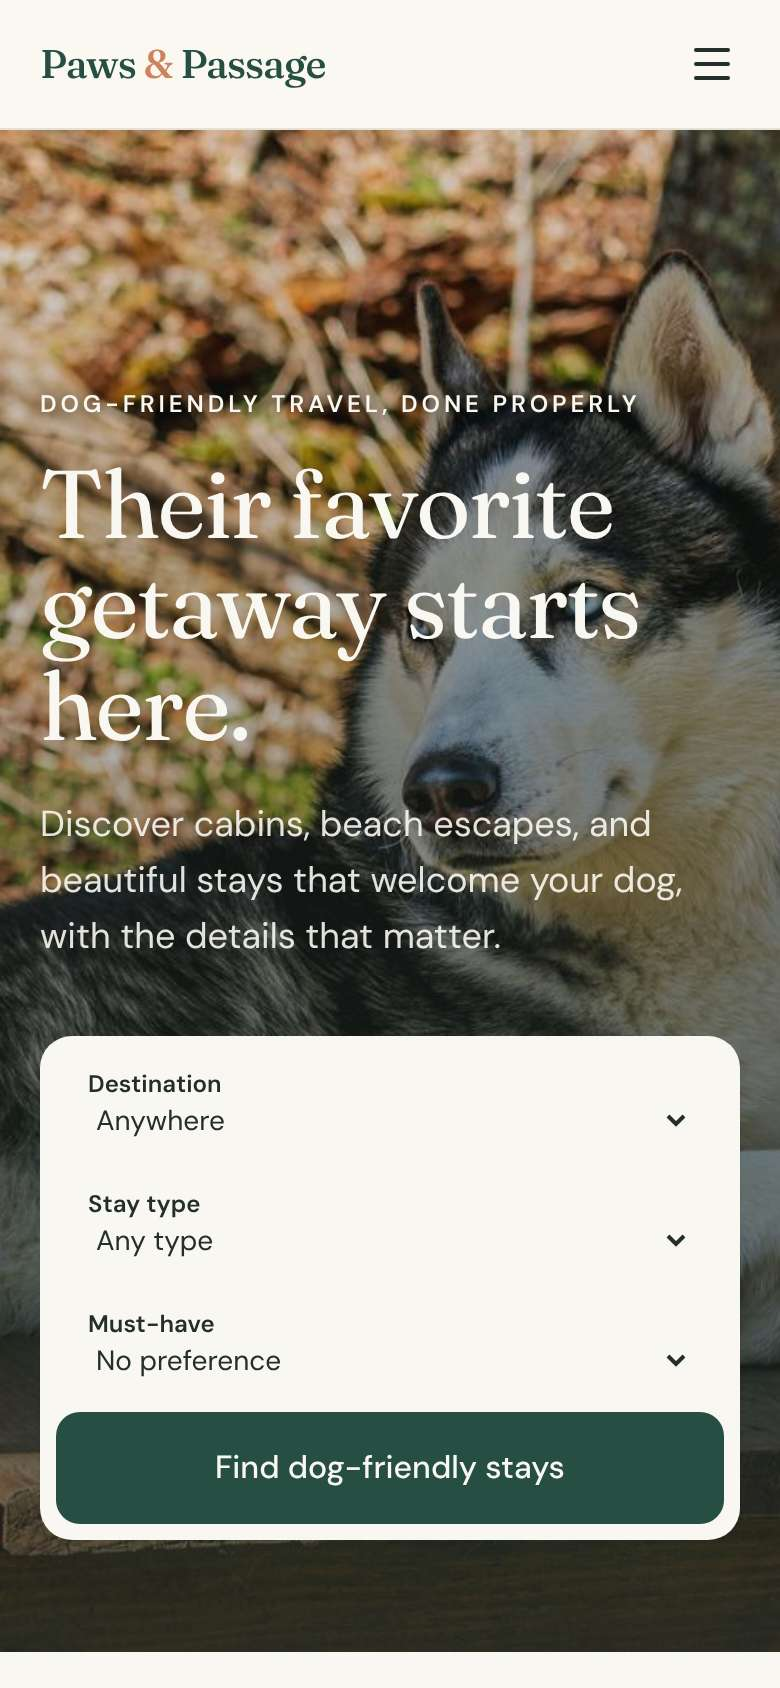
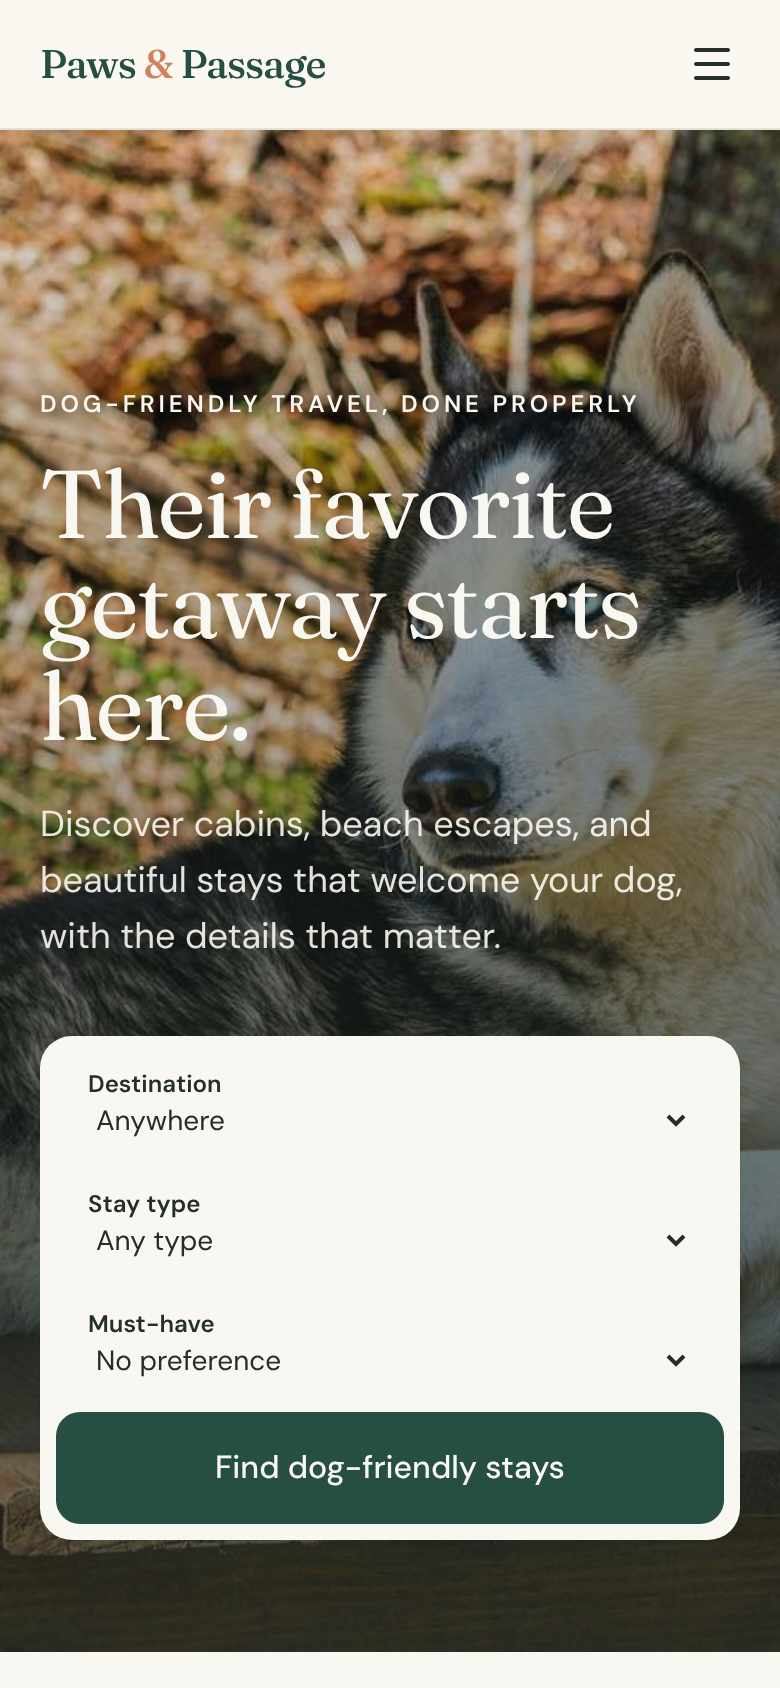
Replace home hero with credited Unsplash photo; update flip docs
Claude-Session: https://claude.ai/code/session_01Wtg1HH8F4yVLgmmRX8QVNV

diff --git a/docs/flip/audit-legal-transfer.md b/docs/flip/audit-legal-transfer.md
@@ -10,7 +10,7 @@ Existing docs relied on but stale (dated 2026-11-16 to 18): `docs/SALE-READINESS
 |---|---|---|---|
 | B1 | Seller affiliate IDs are live in the site: Amazon tag `pawspassage-20`, 33 Vrbo `vrbo.com/affiliate/...` deeplinks, Impact site-verification meta tag. A buyer who publishes as-is sends commissions to the seller and may breach program terms. | `content/settings.yml`; `content/affiliates.yml` (63 uses of `{amazonTrackingId}`); `src/routes/__root.tsx` ~107 | VERIFIED |
 | B2 | No copyright assignment path: no `LICENSE`/`COPYING` file, no copyright notice except footer `(c) {year} Paws & Passage` (no owner named). Buyer needs a written assignment of the text, code and documentation. | `ls LICENSE*` fails; `src/components/site/SiteFooter.tsx:107` | VERIFIED |
-| B3 | Home hero `hero-porch*.jpg` is stated to be AI-generated; the generator, prompt and its terms are not recorded anywhere in the repo, so commercial rights and transferability cannot be shown. | `src/routes/editorial-standards.tsx:44`; no entry in `src/content/image-credits.ts` | VERIFIED that it is undocumented; rights UNVERIFIED |
+| B3 | RESOLVED. Home hero `hero-porch*.jpg` was an undocumented AI image. Owner decision: replaced with a credited Unsplash photo (photographer Cody Scott Milewski, Unsplash License, page https://unsplash.com/photos/siberian-husky-lying-on-brown-wooden-floor-ubDougWF758). Unsplash gives usage rights, not ownership or exclusivity. | `src/content/image-credits.ts` (key `hero-porch`); `src/routes/editorial-standards.tsx`; `src/routes/terms.tsx` | Photo page showed the Unsplash License (not Unsplash+) when fetched |
 | B4 | Legal pages name no operator, entity, jurisdiction or governing law; Terms has a no-liability clause but no governing-law or dispute clause; "no legal review" was the owner's decision. Not a listing blocker, but a buyer must add their own before relying on them. | `src/routes/terms.tsx`, `privacy.tsx`, `affiliate-disclosure.tsx` (all dated 2026-11-18); grep for jurisdiction, governing, entity, LLC: none | VERIFIED |
 | B5 | Disclosure risk: it must not be advertised as earning or as having traffic. Repo supports neither. | `docs/SALE-READINESS.md` (net profit $0) | VERIFIED |
 
@@ -21,7 +21,7 @@ Existing docs relied on but stale (dated 2026-11-16 to 18): `docs/SALE-READINESS
 | N1 | No placeholder "starter text" markers in the legal pages (grep for starter, placeholder, TODO). The pages are generic rather than templated. | `src/routes/{privacy,terms,affiliate-disclosure,about,contact,editorial-standards}.tsx` VERIFIED |
 | N2 | Masthead "Paws & Passage Editors" is a brand byline, not a person, and About says the owner chose not to publish a bio. This is not owner-specific and transfers cleanly. | `src/routes/about.tsx:24` VERIFIED |
 | N3 | `hello@pawsandpassage.com` is the only contact address, set in settings (not hardcoded) and rendered with a graceful fallback if blank. A buyer can change it in one value. Dependence on the Namecheap Private Email subscription is real. | `content/settings.yml`; `src/components/site/ContactEmail.tsx` VERIFIED; subscription status UNVERIFIED |
-| N4 | Photos: every guide, gear and destination image key in `src/assets` has an Unsplash credit in `image-credits.ts` (42 entries); the 15 `pack-*.jpg` images are credited in `src/content/pack-photos.ts` (16 entries). Only `hero-porch`, `hero-porch-mobile` are uncredited (B3). Unsplash License is non-exclusive and covers commercial use but is use-rights, not ownership; it does not cover trademarks or people's likeness in a photo. | credit-vs-asset comparison run today; `docs/PRODUCT-PHOTOS.md` cites https://unsplash.com/license. License text itself not re-read today (UNVERIFIED). |
+| N4 | Photos: every guide, gear and destination image key in `src/assets` has an Unsplash credit in `image-credits.ts` (42 entries); the 15 `pack-*.jpg` images are credited in `src/content/pack-photos.ts` (16 entries). The hero (`hero-porch*`) is now credited too (B3 resolved). Unsplash License is non-exclusive and covers commercial use but is use-rights, not ownership; it does not cover trademarks or people's likeness in a photo. | credit-vs-asset comparison run today; `docs/PRODUCT-PHOTOS.md` cites https://unsplash.com/license. License text itself not re-read today (UNVERIFIED). |
 | N5 | `public/pins/*` and `public/share/*` (Pinterest and social images) are derived images; their source photos are not recorded per file. Probably Unsplash-derived. | directory listing; provenance UNVERIFIED |
 | N6 | Product photos: none from makers (docs record that maker photos need permission and none were added). | `docs/PRODUCT-PHOTOS.md`; no maker images identified in `src/assets` names VERIFIED by listing |
 | N7 | Fonts: DM Sans and Fraunces under the SIL OFL, license files shipped. | `public/fonts/OFL-*.txt` VERIFIED |
@@ -64,7 +64,7 @@ Effort: S under 1 hour, M 1 to 4 hours, L over 4. "Blocks listing" means do not 
 | Pri | Task | Effort | Blocks listing |
 |---|---|---|---|
 | P0 | Decide and state the asset list honestly: pre-revenue, no traffic or income claims, 37 stays unverified (not live), AI-assisted content, seller affiliate IDs removed at closing. | S | Yes |
-| P0 | Confirm the hero image source and tool (or agree to replace it with a credited Unsplash photo). | S | Yes if hero is claimed as an included asset |
+| P0 | DONE: hero replaced with a credited Unsplash photo. | S | No |
 | P0 | Agree to a written bill of sale and copyright assignment (use a lawyer or a standard asset-purchase template; I did not draft one). | M | Closing |
 | P1 | Decide the mailbox: transfer hello@ via Namecheap support, or buyer creates their own. Remove personal forwarding and recovery email. | S | No |
 | P1 | Decide whether to hand over Pinterest (or delete) and the GA4/GSC properties; decide on a fresh squashed repo versus transferring full history (personal email in history). | S | No |

diff --git a/docs/FLIP_READINESS_AUDIT.md b/docs/FLIP_READINESS_AUDIT.md
@@ -8,7 +8,7 @@ Objective (owner, 2026-11-23): sell the site as a turnkey, pre-revenue starter a
 | Traffic | 2 | No GA4 or Search Console data has been read by us. Domain registered 2026-11-17, sitemap of 98 URLs is live and crawlable (VERIFIED). Whether Google has indexed anything is UNVERIFIED. |
 | Revenue | 1 | $0. No affiliate earnings exist; Vrbo and Amazon links are wired through accounts that do not transfer (VERIFIED). |
 | Content | 6 | 30 published guides, about 76,900 words, 491 citations, an original 38-manager dataset (VERIFIED). Held back by: researched not hands-on, no named author by design, dataset is a one-time convenience sample. |
-| Risk | 5 | Positive: no backend, permissive licenses only, no secrets found, tests and build pass, handover docs exist. Negative: no LICENSE or assignment text, seller IDs in the site, an undocumented hero image, no legal review, domain transfer lock rule unverified, young domain. |
+| Risk | 5 | Positive: no backend, permissive licenses only, no secrets found, tests and build pass, handover docs exist. Negative: no LICENSE or assignment text, seller IDs in the site, an AI hero image (now replaced, see blocker 4), no legal review, domain transfer lock rule unverified, young domain. |
 | **Average** | **3.5** | (2 + 1 + 6 + 5) / 4. Do not quote this to buyers; it is an internal planning score. |
 
 ## 2. Is $1,500 defensible?
@@ -22,7 +22,7 @@ Trade-off the owner should know: waiting 3 to 6 months for real traffic data wou
 | 1 | Branch fixes not merged to `main`. Production still has the retired Sleepypod Clickit Sport Plus and Backseat Bridge cards (no buy box on Amazon) and 54 active products instead of 53 | inventory "Branch vs live"; Amazon check 2026-11-18 | Listing | Owner says "merge", Claude merges |
 | 2 | Eight live guides link to the three draft guides, which return 404 (D1) | live-QA audit | Listing | Claude (worker running; regression test added) |
 | 3 | 22 of 24 Vrbo deeplinks unverified because Vrbo returns 429 to bots (D2) | live-QA audit | Listing (the listing says stays earn through Vrbo) | Cowork/owner click test |
-| 4 | Hero image `hero-porch*.jpg` has no recorded source or rights (an AI image per Editorial Standards line 44) | audit-legal-transfer | Listing (honesty) | OWNER decides the wording or replaces it |
+| 4 | RESOLVED: hero image `hero-porch*.jpg` had no recorded source or rights (an AI image). Owner decision: replaced with a credited Unsplash photo (Cody Scott Milewski, Unsplash License). Unsplash gives usage rights, not ownership or exclusivity. | audit-legal-transfer | Listing (honesty) | Done |
 | 5 | No traffic/GA/GSC evidence collected | none read | Listing (honest statement needs numbers) | Cowork B4 B5 |
 | 6 | No LICENSE and no copyright assignment or bill of sale text | audit-legal-transfer | Closing | OWNER |
 | 7 | Namecheap transfer-lock rule for a new domain is unverified | docs conflict | Closing | Cowork B2 |
@@ -40,7 +40,7 @@ Categories: A Claude/code, B Cowork/browser, C Owner-only, D Not needed. Priorit
 | T3 | B | P0 | Vrbo deeplink click test: open each of the 24 booking links in the owner's browser, confirm each lands on the right listing (slow, never hammer) | Stay pages are the monetization story | Cowork or owner | T1 | 45 min | Table of 24 links: lands OK / wrong / dead; evidence | Yes |
 | T4 | B | P0 | GA4 and Search Console evidence (brief B4, B5) | The honest traffic statement | Cowork | none | 20 min | Screenshots with dates, exact numbers | Yes |
 | T5 | B | P0 | Domain proof and Namecheap transfer/lock rules (B1, B2) | Proves ownership; avoids a closing surprise | Cowork | none | 20 min | Screenshots; quoted official wording | Yes |
-| T6 | C | P0 | Decide the hero image (keep with AI disclosure in the listing, or replace) | Rights and honesty | Owner | none | 15 min | Written decision | Yes |
+| T6 | C | P0 | Decide the hero image (keep with AI disclosure in the listing, or replace). DONE: replaced with a credited Unsplash photo | Rights and honesty | Owner | none | 15 min | Written decision | Yes |
 | T7 | A | P0 | Re-run tests and build on final `main`; refresh inventory numbers | Verified-works evidence | Claude | T1 | 15 min | Updated inventory | Yes |
 | T8 | C | P0 | Approve the listing text and decide price floor and offers policy | Final selling decisions | Owner | T3,T4 | 30 min | Approved `SALE_LISTING_DRAFT.md` | Yes |
 | T9 | B | P1 | Marketplace requirements verified in browser (B9) and comps (B10) | Correct fees and a realistic price | Cowork | none | 45 min | Research file section | No (informs T8) |

diff --git a/docs/TRANSFER_CHECKLIST.md b/docs/TRANSFER_CHECKLIST.md
@@ -24,7 +24,7 @@ This file does not repeat the detailed procedures. Follow them in: `docs/DNS-AND
 | Pages CMS | BUYER MUST REPLACE (re-link) | Account-less tool; buyer signs in with GitHub and installs the Pages CMS GitHub App on the repo owner (`.pages.yml`). Not yet opened live per its own header comment. |
 | Code and original content | TRANSFERS (by assignment) | Needs a written assignment; no LICENSE file exists. |
 | Unsplash photos | TRANSFERS as licensed use (not ownership) | Unsplash License is non-exclusive; credits must stay. |
-| AI-generated home hero | OWNER DECISION | Generator and terms not recorded (UNVERIFIED). |
+| Home hero image | RESOLVED | Replaced with a credited Unsplash photo. Unsplash gives usage rights, not ownership or exclusivity. |
 | Dataset CSV | OWNER DECISION / risk | Facts compiled from manager pages; terms-of-use not reviewed. |
 | GA4 property (G-1J97C8CPC1) | NOT TRANSFERABLE as the seller's login; BUYER MUST REPLACE (or have access granted) | Property admin can be added to the buyer's Google account, but the owner must do that. Default: buyer creates own property. |
 | Search Console property | BUYER MUST REPLACE | Verification file and ownership are per account. |
@@ -80,10 +80,10 @@ This file does not repeat the detailed procedures. Follow them in: `docs/DNS-AND
 ## 6. Content and images
 
 - **Who acts:** Seller assigns rights in writing; buyer swaps seller-specific text.
-- **Steps:** (a) Signed assignment of copyright in the original text, code and docs (no LICENSE file exists). (b) Keep `src/content/image-credits.ts` and `src/content/pack-photos.ts` intact: all guide/gear/destination photos are credited Unsplash photographers; the home hero (`hero-porch*.jpg`) is described as AI-generated (`src/routes/editorial-standards.tsx`). (c) Buyer edits the About page byline paragraph (`src/routes/about.tsx`) and legal pages (see section 14 and the audit).
+- **Steps:** (a) Signed assignment of copyright in the original text, code and docs (no LICENSE file exists). (b) Keep `src/content/image-credits.ts` and `src/content/pack-photos.ts` intact: all guide/gear/destination photos are credited Unsplash photographers; the home hero (`hero-porch*.jpg`) is now a credited Unsplash photo too (unsplash gives usage rights, not ownership or exclusivity). (c) Buyer edits the About page byline paragraph (`src/routes/about.tsx`) and legal pages (see section 14 and the audit).
 - **Do not claim** "unique photos" or product photography; the brief states maker photos are not licensed (`docs/PRODUCT-PHOTOS.md`).
-- **Evidence:** signed assignment; export of image credits; hero image generation record (seller to supply, UNVERIFIED).
-- **Risk:** Medium (hero provenance; derived `public/pins` and `public/share` images were made from the site's photos, rights chain UNVERIFIED).
+- **Evidence:** signed assignment; export of image credits; hero photo credit in `src/content/image-credits.ts`.
+- **Risk:** Medium (derived `public/pins` and `public/share` images were made from the site's photos, rights chain UNVERIFIED).
 
 ## 7. Dataset
 

diff --git a/docs/COWORK_IMMEDIATE_FLIP_BRIEF.md b/docs/COWORK_IMMEDIATE_FLIP_BRIEF.md
@@ -13,7 +13,7 @@ Evidence rules: screenshots and exports go to a **private** folder the owner nam
 
 ## 2. Current verified website state (2026-11-23)
 From `docs/BUYER_ASSET_INVENTORY.md`: 30 published guides (about 76,900 words, 166 FAQs, 491 citations), 3 draft guides (404 on the live site on purpose); an original 38-manager pet-policy dataset (`public/pet-policies-38-managers.csv`, page `/data/pet-policies`); 37 stay files, 32 listed and earning via approved Vrbo deeplinks, 5 hidden; 4 live tools; a gear hub with 53 active products, all with approved Amazon links (tag `pawspassage-20`); 98-URL sitemap; 30 Pinterest pins and 31 share images; 486 tests pass; production build succeeds. Hosting: Netlify free plan, project `paws-passage-test`, deploys from GitHub `main`. Domain: pawsandpassage.com at Namecheap (registered 2026-11-17). Pages CMS edits content. GA4 property G-1J97C8CPC1. Search Console: domain property (verified per the owner's tracker on 2026-11-17). Pinterest: https://www.pinterest.com/paws_and_passage/ (website claim status unconfirmed). **Traffic and revenue: none verified.** The unmerged branch fixes must be merged by the owner before listing (the owner must say "merge" to Claude).
-Known limitations: no LICENSE and no assignment text; the seller's analytics, Amazon, Vrbo and Impact IDs are in the site and must be swapped by the buyer; an undocumented hero image (`hero-porch*.jpg`) needs a provenance decision; no legal review of Privacy and Terms; `docs/TRANSFER_CHECKLIST.md` lists the rest.
+Known limitations: no LICENSE and no assignment text; the seller's analytics, Amazon, Vrbo and Impact IDs are in the site and must be swapped by the buyer; the home hero (`hero-porch*.jpg`) is now a credited Unsplash photo (unsplash gives usage rights, not ownership or exclusivity); no legal review of Privacy and Terms; `docs/TRANSFER_CHECKLIST.md` lists the rest.
 
 ## 3. Dependency-aware execution order
 1. **Stage 0 (no dependencies, start now):** tasks B1 to B6 (read-only evidence).
@@ -50,7 +50,7 @@ For every task: record what you saw, save the evidence, then mark PASS, FAIL, BL
 ## 5. Buyer-readiness checklist (must be true before listing)
 - [ ] Branch merged to `main` by the owner; Netlify deploy green; `docs/BUYER_ASSET_INVENTORY.md` numbers match the live site.
 - [ ] B1 to B5 evidence collected; traffic and revenue statement written with exact numbers (or "none yet").
-- [ ] Hero image provenance and image credits resolved (`docs/flip/audit-legal-transfer.md`).
+- [x] Hero image provenance and image credits resolved (`docs/flip/audit-legal-transfer.md`).
 - [ ] Copyright assignment and bill-of-sale terms chosen by the owner (owner-only).
 - [ ] Listing text approved by the owner, with no claim beyond the evidence; seller identity verification done by the owner on the marketplace.
 - [ ] Repo history decision made (full history vs fresh squashed repo).

diff --git a/docs/BUYER_DUE_DILIGENCE_CHECKLIST.md b/docs/BUYER_DUE_DILIGENCE_CHECKLIST.md
@@ -18,7 +18,7 @@ Rules: sensitive evidence (account screens, bills, identity documents, anything 
 | 10 | Traffic and revenue statement | Honest baseline | One paragraph: "Traffic: [exact GA4 sessions and dates]. Revenue: $0. No earnings to date." Never estimate | Owner | Listing text | Yes |
 | 11 | Affiliate status statement | Prevents a false monetization claim | Per program: applied / approved / not applied; Vrbo and Amazon wired in the site; **not transferable**. Do not quote commission or earnings | Owner | Listing text | Yes |
 | 12 | Content originality: dataset method and source list; Editorial Standards page; AI-use disclosure on that page | Honest provenance, avoids a rights dispute | `docs/DATA-RECHECK-LOG.md`, `/data/pet-policies`, `/editorial-standards`; the owner decides the wording of AI-assisted content in the listing | Claude + owner | Repo | Yes |
-| 13 | Image rights: credits list for Unsplash photos, derived pins and share images, and the AI-generated or undocumented hero image | Rights buyer inherits | `src/content/image-credits.ts`; owner decides on the hero image provenance (see `docs/flip/audit-legal-transfer.md`) | Owner | Repo | Yes (hero image) |
+| 13 | Image rights: credits list for Unsplash photos, derived pins and share images, and the home hero, now a credited Unsplash photo (unsplash gives usage rights, not ownership or exclusivity) | Rights buyer inherits | `src/content/image-credits.ts` (includes `hero-porch`); see `docs/flip/audit-legal-transfer.md` B3 | Owner | Repo | No |
 | 14 | Third-party code licenses | Reuse rights | `bunx license-checker --production` summary: permissive licenses only (see audit-legal-transfer.md) | Claude (done) | Repo | No |
 | 15 | Secrets scan result | Buyer safety | Working-tree and history pattern scan: no keys found (UNVERIFIED for gitleaks-grade) | Claude (done) | Repo | No |
 | 16 | Expenses | Buyer wants costs to run it | Domain first term and renewal, Private Email if kept; hosting $0. Figures from `docs/COSTS-AND-ACCOUNTS.md` and the tracker; label UNCONFIRMED where unconfirmed | Owner | Listing text | No |

diff --git a/docs/SALE_LISTING_DRAFT.md b/docs/SALE_LISTING_DRAFT.md
@@ -26,7 +26,7 @@ This is a **new, pre-revenue starter site**. It has **no traffic history and no 
 - No affiliate accounts: the seller's Amazon Associates ID, Vrbo/Expedia deeplinks, Impact and Awin accounts, Google Analytics property and Search Console access do not transfer. You apply for your own. The site's links are wired through two config files (`content/settings.yml`, `content/affiliates.yml`).
 - No Pinterest account, no social accounts, no email list (by design) and no business mailbox (you set up your own).
 - No warranty of any future income, indexing or ranking. Sold as is.
-- A small number of items need your decision at closing: the copyright and image notes, and the repo history (full history or a fresh squashed copy).
+- A small number of items need your decision at closing: the copyright and image notes (the home hero is a credited Unsplash photo: unsplash gives usage rights, not ownership or exclusivity), and the repo history (full history or a fresh squashed copy).
 
 ## Honest risks the buyer should weigh
 - Brand-new domain: expect little organic traffic for months even when the pages are indexed.

diff --git a/docs/BUYER_ASSET_INVENTORY.md b/docs/BUYER_ASSET_INVENTORY.md
@@ -172,6 +172,7 @@ Docs the buyer receives: 135 Markdown files in `docs/` (plus `docs/audit`, `docs
 | Email | `hello@pawsandpassage.com` is a Namecheap Private Email mailbox; the subscription is not moved with the domain and its transfer is unconfirmed (`docs/EMAIL-AND-TRANSFER.md`) |
 | Domain and hosting | Transfers are written procedures (`docs/DNS-AND-TRANSFER.md`); none has been rehearsed |
 | Photos of real rentals | No photo permission recorded on any stay file; stock photos are Unsplash; `src/assets` holds 148 JPG files |
+| Home hero image | Now a credited Unsplash photo (`hero-porch*.jpg`, photographer Cody Scott Milewski, credited in `src/content/image-credits.ts`), replacing the earlier AI illustration. Unsplash gives usage rights, not ownership or exclusivity: the buyer gets the right to keep using it under the Unsplash License, not the photo's copyright, and anyone else may use it too |
 | Verified places or verified stays | 0 verified stays and 0 verified dog-rules places |
 | Subscribers or newsletter | There is no list or newsletter |
 
